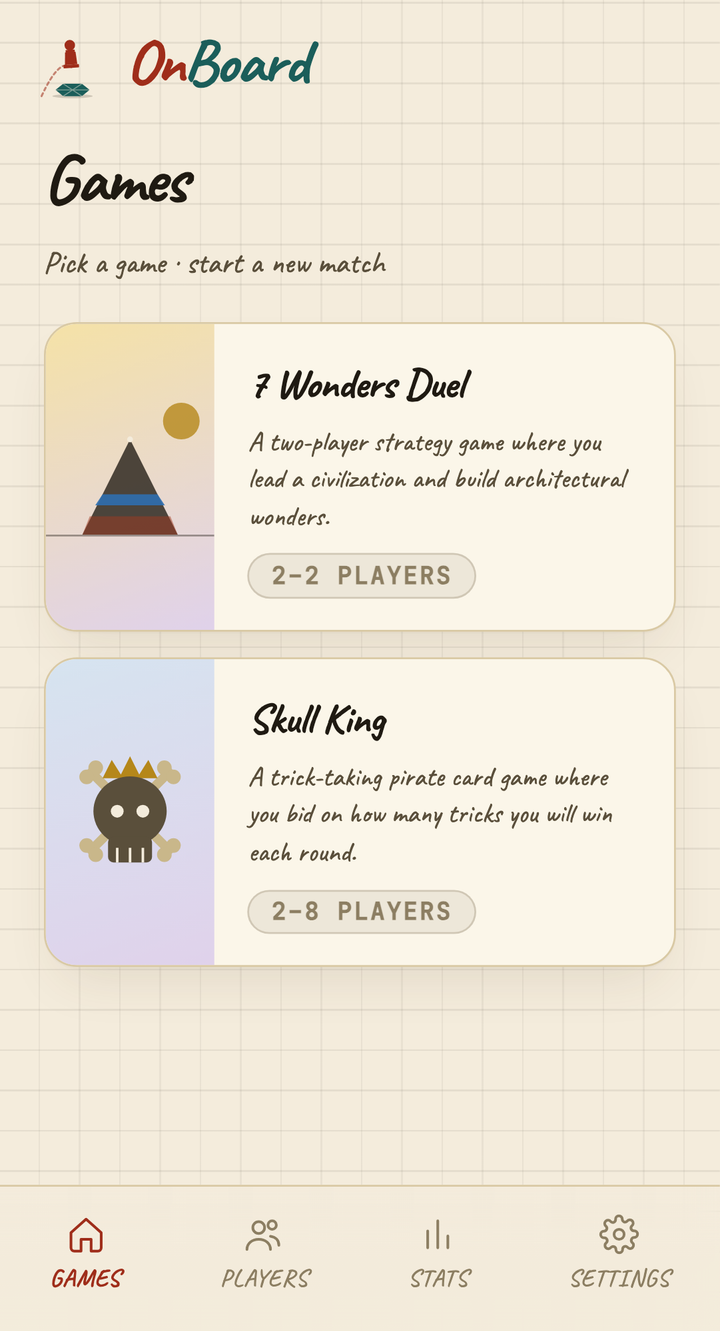
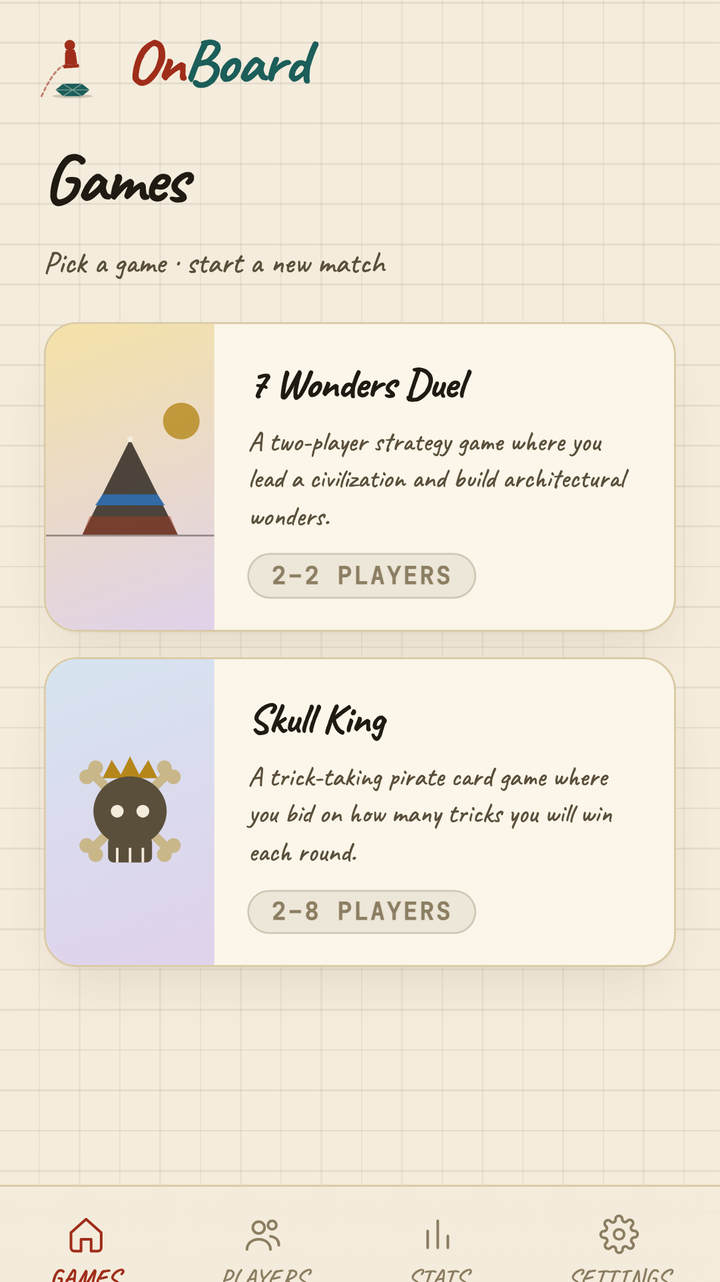
ux(8-I): polish install page — viewport-crop screenshots, mobile srcset, install button
Round of fit-and-finish on /install driven by review feedback:

- **Viewport-crop screenshots**: `scripts/optimize-screenshots.ts`
  now extracts the top portion of each capture at aspect ratio 1.78
  (≈ 720×1282), cropping just past the BottomNav so the frame stops
  at the visible-app boundary instead of trailing into the scrolled
  content below. Playwright's `fullPage` capture doesn't pin
  `position: fixed` to the logical viewport bottom, so 851/393 was
  too tall. Applied to both 720w and 360w WebP variants and to the
  PNG fallback. Manifest `screenshots[]` sizes updated to 720×1282
  across all six entries.

- **Tighter strip gap**: `.screenshotScroller` gap drops from 0.75rem
  → 0.375rem. `.screenshotImg` switches from a fixed 380px height to
  `aspect-ratio: 720 / 1282` so the frame matches the captured image
  natively (no double-cropping).

- **Mobile media-query srcset**: `<picture>` on the strip now picks
  the 360w WebP on `(max-width: 480px)` regardless of DPR. Strips
  render at 56-220 CSS-px on a phone (most off-screen until scroll)
  so 720w was wasteful even at 3x DPR. Desktop still gets the
  sharper 720w.

- **Install button**: hero now surfaces an Install OnBoard primary
  CTA that triggers the native `beforeinstallprompt` flow via
  `useInstallPrompt` (same hook the Settings page uses). Hidden on
  iOS / desktops without the API / post-cooldown — the manual steps
  below stay as the fallback. An "OnBoard is installed" pill
[…]

diff --git a/scripts/optimize-screenshots.ts b/scripts/optimize-screenshots.ts
@@ -37,6 +37,20 @@ const WIDTHS = [720, 360] as const;
 const PRIMARY_WIDTH = WIDTHS[0]; // PNG fallback + manifest reference
 const WEBP_QUALITY = 80;
 
+// Crop the top portion of full-page captures down to roughly the
+// rendered viewport height. Source captures use `fullPage: true`, so
+// a screen with stats or a long match history scrolls past the
+// BottomNav — the resulting PNG is many viewports tall, which looks
+// like a scroll dump in the install-page strip and wastes bandwidth
+// in both the manifest entry and the LCP audit.
+//
+// Empirically the BottomNav sits at roughly y=1280 in a 720-wide
+// resized capture (Playwright's `fullPage` doesn't pin `position:
+// fixed` to the logical viewport bottom — it ends up higher up in
+// the captured image), so 1.78 cuts just past the navbar without
+// leaving the next row of cards visible underneath.
+const MAX_ASPECT_RATIO = 1.78;
+
 async function main() {
   let entries: string[];
   try {
@@ -61,14 +75,13 @@ async function main() {
     const srcPath = path.join(DIR, file);
     const meta = await sharp(srcPath).metadata();
     const width = meta.width ?? PRIMARY_WIDTH;
-
-    // If a previous run already downsized below the primary width,
-    // skip rework — keeps `npm run build` idempotent.
-    const needsResize = width > PRIMARY_WIDTH;
+    const height = meta.height ?? 0;
 
     // Emit one WebP per candidate width. The primary (720) is what
     // the manifest references; the smaller (360) only ships via the
-    // <picture> srcSet on /install.
+    // <picture> srcSet on /install. Each is cropped from the top so
+    // the bottom-navbar row anchors the bottom of the frame, mirroring
+    // a normal one-viewport phone screenshot.
     const base = file.replace(/\.png$/, "");
     const emitted: string[] = [];
     for (const w of WIDTHS) {
@@ -76,25 +89,46 @@ async function main() {
         DIR,
         w === PRIMARY_WIDTH ? `${base}.webp` : `${base}-${w}w.webp`,
       );
-      await sharp(srcPath)
-        .resize({ width: w, withoutEnlargement: true })
+      const maxH = Math.round(w * MAX_ASPECT_RATIO);
+      // Source is taller than the viewport target → resize then
+      // extract top maxH. Resize alone would distort aspect, so we
+      // do two passes: scale to the new width (preserving aspect),
+      // then extract the top stripe.
+      const resized = sharp(srcPath).resize({
+        width: w,
+        withoutEnlargement: true,
+      });
+      const buf = await resized.toBuffer({ resolveWithObject: true });
+      const cropHeight = Math.min(buf.info.height, maxH);
+      await sharp(buf.data)
+        .extract({ left: 0, top: 0, width: buf.info.width, height: cropHeight })
         .webp({ quality: WEBP_QUALITY })
         .toFile(out);
       emitted.push(path.basename(out));
     }
 
-    if (needsResize) {
-      // Replace the PNG in place with the primary-width version.
-      // Buffer first — sharp can't read and write to the same path.
-      const buf = await sharp(srcPath)
-        .resize({ width: PRIMARY_WIDTH, withoutEnlargement: true })
+    // Replace the PNG in place with the primary-width, viewport-
+    // cropped version so the manifest's PNG fallback matches what
+    // the WebP variants show.
+    const maxPrimaryH = Math.round(PRIMARY_WIDTH * MAX_ASPECT_RATIO);
+    const needsResize = width > PRIMARY_WIDTH;
+    const needsCrop = height > maxPrimaryH;
+    if (needsResize || needsCrop) {
+      const resized = sharp(srcPath).resize({
+        width: PRIMARY_WIDTH,
+        withoutEnlargement: true,
+      });
+      const buf = await resized.toBuffer({ resolveWithObject: true });
+      const cropHeight = Math.min(buf.info.height, maxPrimaryH);
+      const pngBuf = await sharp(buf.data)
+        .extract({ left: 0, top: 0, width: buf.info.width, height: cropHeight })
         .png({ compressionLevel: 9 })
         .toBuffer();
-      await fs.writeFile(srcPath, buf);
+      await fs.writeFile(srcPath, pngBuf);
     }
     console.log(
       `optimize-screenshots: ${file} -> ${emitted.join(", ")}${
-        needsResize ? " (resized PNG)" : ""
+        needsResize || needsCrop ? " (resized/cropped PNG)" : ""
       }`,
     );
   }

diff --git a/src/client/routes/install.tsx b/src/client/routes/install.tsx
@@ -2,7 +2,9 @@ import { createFileRoute, Link } from "@tanstack/react-router";
 import { useMemo, useState } from "react";
 import { Trans, useTranslation } from "react-i18next";
 import { LanguageSelector } from "../components/LanguageSelector";
+import { Button } from "../components/ui/Button";
 import { Icon } from "../components/ui/Icon";
+import { useInstallPrompt } from "../hooks/useInstallPrompt";
 import styles from "./install.module.css";
 
 export const Route = createFileRoute("/install")({
@@ -45,6 +47,11 @@ function InstallPage() {
   const initialPlatform = useMemo(detectPlatform, []);
   const [openIOS, setOpenIOS] = useState(initialPlatform !== "android");
   const [openAndroid, setOpenAndroid] = useState(initialPlatform !== "ios");
+  // Same hook as the Settings install group: surfaces `canInstall` when
+  // the browser captured a `beforeinstallprompt` event (mostly Chromium-
+  // family on Android / desktop). On iOS or after a dismissal cooldown
+  // the button hides — the manual steps below cover those cases.
+  const { canInstall, install, isInstalled } = useInstallPrompt();
 
   return (
     <div className={styles.page}>
@@ -69,6 +76,30 @@ function InstallPage() {
           <p className={styles.heroPitch}>{t("install.hero.pitch")}</p>
         </div>
       </section>
+
+      {canInstall && (
+        <Button
+          type="button"
+          onClick={() => void install()}
+          variant="primary"
+          size="lg"
+          fullWidth
+          iconBefore={<Icon name="plus" size={18} />}
+          className={styles.installCta}
+          data-testid="install-cta-button"
+        >
+          {t("install.ctaInstall")}
+        </Button>
+      )}
+      {isInstalled && (
+        <p
+          className={styles.installedPill}
+          data-testid="install-cta-installed"
+        >
+          <Icon name="check" size={14} />
+          <span>{t("install.ctaInstalled")}</span>
+        </p>
+      )}
 
       <ul className={styles.features} data-testid="install-features">
         {FEATURES.map((key) => (
@@ -104,11 +135,18 @@ function InstallPage() {
             return (
               <figure key={shot.src} className={styles.screenshotFrame}>
                 <picture>
+                  {/* Force mobile to the 360w variant regardless of
+                      DPR. The strip's frames are scroll-snap children
+                      that visibly render at 56-220 CSS-px on a phone
+                      (most are off-screen until scroll), so a 720w
+                      source is wasteful even at 3x DPR. Desktop still
+                      gets the sharper 720w. */}
                   <source
                     type="image/webp"
-                    srcSet={`${webpSm} 360w, ${webpLg} 720w`}
-                    sizes="(max-width: 480px) 65vw, 240px"
+                    media="(max-width: 480px)"
+                    srcSet={webpSm}
                   />
+                  <source type="image/webp" srcSet={webpLg} />
                   <img
                     src={png}
                     alt={caption}

diff --git a/vite.config.ts b/vite.config.ts
@@ -302,42 +302,42 @@ export default defineConfig({
         screenshots: [
           {
             src: `/screenshots/01-games.webp${V}`,
-            sizes: "720x1331",
+            sizes: "720x1282",
             type: "image/webp",
             form_factor: "narrow",
             label: "Pick a game and start a new match",
           },
           {
             src: `/screenshots/02-scoring-7wd.webp${V}`,
-            sizes: "720x1839",
+            sizes: "720x1282",
             type: "image/webp",
             form_factor: "narrow",
             label: "Score a 7 Wonders Duel match in progress",
           },
           {
             src: `/screenshots/03-scoring-sk.webp${V}`,
-            sizes: "720x1513",
+            sizes: "720x1282",
             type: "image/webp",
             form_factor: "narrow",
             label: "Score Skull King rounds with bid bonuses",
           },
           {
             src: `/screenshots/04-players.webp${V}`,
-            sizes: "720x1331",
+            sizes: "720x1282",
             type: "image/webp",
             form_factor: "narrow",
             label: "Keep your friend profiles in one place",
           },
           {
             src: `/screenshots/05-profile.webp${V}`,
-            sizes: "720x3751",
+            sizes: "720x1282",
             type: "image/webp",
             form_factor: "narrow",
             label: "See a friend's stats and recent matches",
           },
           {
             src: `/screenshots/06-studio.webp${V}`,
-            sizes: "720x4865",
+            sizes: "720x1282",
             type: "image/webp",
             form_factor: "narrow",
             label: "Customize avatars and frames",

diff --git a/src/client/routes/install.module.css b/src/client/routes/install.module.css
@@ -50,7 +50,26 @@
   display: flex;
   align-items: center;
   gap: 1rem;
+  margin: 0 0 1.25rem;
+}
+
+.installCta {
   margin: 0 0 1.5rem;
+}
+
+.installedPill {
+  display: inline-flex;
+  align-items: center;
+  gap: 0.4rem;
+  padding: 0.5rem 0.875rem;
+  border-radius: 999px;
+  background: var(--color-surface-alt);
+  color: var(--color-ink-soft);
+  font-family: var(--font-body);
+  font-size: 0.85rem;
+  font-weight: 500;
+  margin: 0 0 1.5rem;
+  align-self: flex-start;
 }
 
 .heroIcon {
@@ -139,7 +158,7 @@
 
 .screenshotScroller {
   display: flex;
-  gap: 0.75rem;
+  gap: 0.375rem;
   overflow-x: auto;
   padding-bottom: 0.5rem;
   scroll-snap-type: x mandatory;
@@ -159,7 +178,10 @@
 
 .screenshotImg {
   width: 100%;
-  height: 380px;
+  /* Aspect ratio matches the cropped capture (720 × 1282 ≈ 1.78), so
+   * the frame doesn't crop again on top of the image. */
+  aspect-ratio: 720 / 1282;
+  height: auto;
   object-fit: cover;
   object-position: top center;
   border-radius: 18px;
